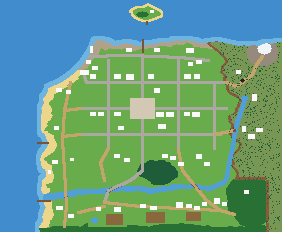
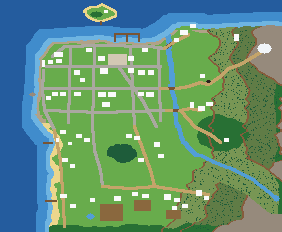
Blueprint draft 2: the world shaped after Beirut's topography
The town on a low peninsula with the sea north and west, the port, the coast turning north-east to meet the mountain,
the long straight West Beach, land rising east in cliff terraces to a summit, and the Beirut River running north past
the town into the sea east of the port. A highland colour joins the key.

diff --git a/tools/map/blueprint.js b/tools/map/blueprint.js
@@ -1,4 +1,4 @@
-// The new world's blueprint (2026-11-06): the 25 outdoor rooms merged into big Stardew-style areas, drawn one pixel per
+// The new world's blueprint (2026-11-06, draft 2 after Beirut's topographic map): the 25 outdoor rooms merged into big Stardew-style areas, drawn one pixel per
 // tile in flat colours (design/map/world_blueprint.png - paint over it to change the world), and a labelled 4x preview
 // (design/map/world_blueprint_preview.png).
 //   node tools/map/blueprint.js
@@ -19,7 +19,7 @@
 const C = {
 	deep: [36, 92, 158], sea: [64, 140, 204], shallow: [110, 180, 225], sand: [236, 214, 140], rocky: [176, 162, 136],
 	grass: [104, 172, 76], meadow: [128, 186, 88], forest: [40, 112, 52], pine: [30, 92, 58], cliff: [134, 92, 60],
-	cliffTop: [120, 150, 84], rock: [150, 138, 124], snow: [240, 244, 248], road: [170, 168, 160], lane: [196, 164, 106],
+	cliffTop: [120, 150, 84], highland: [96, 124, 70], rock: [150, 138, 124], snow: [240, 244, 248], road: [170, 168, 160], lane: [196, 164, 106],
 	plaza: [210, 200, 180], field: [138, 104, 62], river: [82, 158, 214], building: [250, 250, 250], pier: [120, 84, 52],
 	cave: [40, 34, 32],
 };
@@ -40,166 +40,176 @@ const hash = (i, s) => { let h = (i * 374761393 + s * 668265263) | 0; h = (h ^ (
 const noise = (t, s, f) => { const x = t * f, i = Math.floor(x), u = x - i, a = hash(i, s), b = hash(i + 1, s), k = u * u * (3 - 2 * u); return a + (b - a) * k; };
 const wob = (t, s, amp) => (noise(t, s, 0.07) - 0.5) * 2 * amp + (noise(t, s + 9, 0.22) - 0.5) * amp * 0.6;
 
-// ---- land, the coasts (world tiles 0..249 x 0..199, plus the margin)
-// West coast: the sea's edge at x = 12 +- (wider and narrower like a real beach); north coast at y = 12 +-; the town's
-// north-west corner (old Well's Head) is a bay
+// ---- land, the coasts (world tiles 0..249 x 0..199, plus the margin), after Beirut's real shape: a low peninsula
+// (the town) with the sea to its north and west and its north-west corner rounded off; past the port the coast turns
+// up to the north-east (North Beach, short, meeting the mountain's cliffs); south of the peninsula the west coast runs
+// long and straight (West Beach)
+const northCoast = x => (x < 128 ? 11 : 11 - (x - 128) * 0.6) + wob(x, 2, 2.5);
+const westCoast = y => (y < 84 ? 7 : y < 104 ? 7 + (y - 84) * 0.75 : 22) + wob(y, 1, (y < 84 ? 2 : 4));
 for(let y = -M; y < 200 + M; y++) for(let x = -M; x < 250 + M; x++){
-	const west = 14 + wob(y, 1, 6), north = 13 + wob(x, 2, 4);
-	const bay = (x < 70 && y < 64) && ((x - 0) ** 2 / 64 ** 2 + (y - 0) ** 2 / 58 ** 2 < 1.0 + wob(x + y, 3, 0.1));
-	const landHere = x >= west && y >= north && !bay;
-	if(landHere) set(x + M, y + M, "grass");
+	const tip = (x + y) < 34 + wob(x - y, 3, 3);                      // the peninsula's rounded north-west corner
+	if(x >= westCoast(y) && y >= Math.max(northCoast(x), -3 + wob(x, 7, 2)) && !tip) set(x + M, y + M, "grass");   // the mountain meets the sea at the top
 }
-// Shallows and beaches: sand (west, and the bay's shore) and rocky shore (north) a band in from the sea
 const isSea = (x, y) => ["deep", "sea", "shallow"].includes(get(x + M, y + M));
 const nearSea = (x, y, r) => { for(let dy = -r; dy <= r; dy++) for(let dx = -r; dx <= r; dx++) if(isSea(x + dx, y + dy)) return true; return false; };
+
+// ---- the land's height, in steps (0 the lowland and the town; 1, 2 the hills and mountain terraces; 3 the summit):
+// rising to the east and south-east as in the topographic map, with the river's valley cut down through it
+const river = [[246, 168], [224, 150], [204, 140], [184, 132], [166, 124], [154, 112], [148, 96], [146, 78], [142, 56], [140, 34], [138, 16], [137, 2]];
+const riverDist = (x, y) => { let best = 1e9; for(let i = 0; i < river.length - 1; i++){
+	const [x1, y1] = river[i], [x2, y2] = river[i + 1], dx = x2 - x1, dy = y2 - y1, t = Math.max(0, Math.min(1, ((x - x1) * dx + (y - y1) * dy) / (dx * dx + dy * dy)));
+	best = Math.min(best, Math.hypot(x - x1 - t * dx, y - y1 - t * dy)); } return best; };
+const Lr = Array.from({length: 200 + 2 * M}, () => Array(250 + M).fill(0));
+const L = new Proxy(Lr, {get: (t, k) => t[Number(k) + M]});      // L[y][x] for y from -M
+for(let y = -M; y < 200 + M; y++) for(let x = 0; x < 250 + M; x++){
+	let h = (x - 150 - wob(y, 30, 12)) / 34 + Math.max(0, y - 130 - wob(x, 31, 10)) / 42 * Math.min(1, Math.max(0, (x - 70) / 80));
+	h += Math.max(0, 1.4 - Math.hypot(x - 232, y - 22) / 34);         // the summit, top right
+	const rd = riverDist(x, y);
+	if(rd < 9) h = Math.min(h, y < 110 ? 0 : 1);                     // the valley floor
+	else if(rd < 16) h = Math.min(h, y < 110 ? 1 : 1.9);
+	Lr[y + M][x] = Math.max(0, Math.min(3, Math.floor(h)));
+}
+const highKind = ["grass", "cliffTop", "highland", "rock"];
+for(let y = -M; y < 200 + M; y++) for(let x = 0; x < 250 + M; x++) if(get(x + M, y + M) === "grass" && L[y][x] > 0) set(x + M, y + M, highKind[L[y][x]]);
+disc(234, 18, 7, 5, "snow", ["rock"]);
+// A cliff face wherever the ground steps down to the west or the south (2 tiles deep: the face you see)
+{
+	const lv = (x, y) => (x < 0 || y < -M || y >= 200 + M || x >= 250 + M) ? -1 : (isSea(x, y) ? -1 : L[y][x]), face = [];
+	for(let y = -M; y < 200 + M; y++) for(let x = 0; x < 250 + M; x++){
+		if(lv(x, y) <= 0) continue;
+		if(lv(x - 1, y) >= 0 && lv(x - 1, y) < lv(x, y)){ face.push([x, y]); face.push([x + 1, y]); }
+		if(lv(x, y + 1) >= 0 && lv(x, y + 1) < lv(x, y)){ face.push([x, y]); face.push([x, y - 1]); }
+	}
+	for(const [x, y] of face) if(["cliffTop", "highland", "rock"].includes(get(x + M, y + M))) set(x + M, y + M, "cliff");
+}
+
+// ---- beaches: the West Beach's wide sand (in and out like a real beach); rocky shore round the peninsula (Raouche,
+// the corniche) and along North Beach
 for(let y = 0; y < 200; y++) for(let x = 0; x < 250; x++){
 	if(get(x + M, y + M) !== "grass") continue;
-	const band = (x < 60) ? 7 + Math.round(wob(y, 4, 4)) : 4 + Math.round(wob(x, 5, 2));
-	if(nearSea(x, y, Math.max(2, band))) set(x + M, y + M, (y < 40 && x > 46) ? "rocky" : "sand");
+	const sandy = y > 92;
+	const band = sandy ? 6 + Math.round(wob(y, 4, 4)) : 3 + Math.round(wob(x + y, 5, 1.5));
+	if(nearSea(x, y, Math.max(2, band))) set(x + M, y + M, sandy ? "sand" : "rocky");
 }
 for(let y = -M; y < 200 + M; y++) for(let x = -M; x < 250 + M; x++){
 	if(!isSea(x, y)) continue;
 	let land = false;
-	for(let dy = -4; dy <= 4 && !land; dy++) for(let dx = -4; dx <= 4; dx++) if(!isSea(x + dx, y + dy) && get(x + dx + M, y + dy + M) !== undefined){ land = true; break; }
-	set(x + M, y + M, land ? "shallow" : (get(x + M, y + M) === "deep" && nearSea(x, y, 0) ? "sea" : "deep"));
+	for(let dy = -4; dy <= 4 && !land; dy++) for(let dx = -4; dx <= 4; dx++) if(!isSea(x + dx, y + dy)){ land = true; break; }
+	if(land) set(x + M, y + M, "shallow");
 }
 for(let y = -M; y < 200 + M; y++) for(let x = -M; x < 250 + M; x++){
 	if(get(x + M, y + M) !== "deep") continue;
-	for(let dy = -9; dy <= 9; dy++) for(let dx = -9; dx <= 9; dx++) if(["shallow"].includes(get(x + dx + M, y + dy + M))){ set(x + M, y + M, "sea"); dy = 99; break; }
+	for(let dy = -9; dy <= 9; dy++) for(let dx = -9; dx <= 9; dx++) if(get(x + dx + M, y + dy + M) === "shallow"){ set(x + M, y + M, "sea"); dy = 99; break; }
 }
 
-// ---- the mountain (top right): high ground from the north coast's east end down to the woods, a peak, the mine
-const ridge = y => 200 + wob(y, 6, 10) - (y < 40 ? (40 - y) * 0.9 : 0);   // its west edge, swinging out over the north
-for(let y = 0; y < 150; y++) for(let x = 0; x < 250 + M; x++){
-	if(x >= ridge(y) && !isSea(x, y)) set(x + M, y + M, "cliffTop");
-}
-for(let y = 150; y < 200 + M; y++) for(let x = 236; x < 250 + M; x++) if(!isSea(x, y)) set(x + M, y + M, "cliffTop");
-disc(232, 22, 16, 14, "rock", ["cliffTop"]);
-for(let y = 0; y < 200; y++) for(let x = 190; x < 250; x++) if(get(x + M, y + M) === "cliffTop" && hash(x * 3, y * 7) < 0.09) set(x + M, y + M, "pine");
-disc(234, 18, 7, 6, "snow", ["rock"]);
-// The cliff face along the high ground's west and south edges
-{
-	const high = (x, y) => ["cliffTop", "rock", "snow", "pine"].includes(get(x + M, y + M)), edge = [];
-	for(let y = 0; y < 200 + M; y++) for(let x = 0; x < 250 + M; x++){
-		if(get(x + M, y + M) !== "cliffTop") continue;
-		if(!high(x - 1, y)) for(let k = 0; k < 3; k++) edge.push([x + k, y]);          // the west face, 3 wide
-		for(let k = 1; k <= 3; k++) if(get(x + M, y + k + M) === "grass"){ edge.push([x, y]); break; }   // the south face
-	}
-	for(const [x, y] of edge) if(get(x + M, y + M) === "cliffTop") set(x + M, y + M, "cliff");
-}
-
-// ---- forests: Whispering Woods (bottom right), the pine wood in the Outskirts (Dahya), woods along the south
-const blob = (cx, cy, rx, ry, k, s) => { for(let y = cy - ry - 6; y <= cy + ry + 6; y++) for(let x = cx - rx - 6; x <= cx + rx + 6; x++){
+// ---- forests: Horsh Beirut's pines south of the town (the Outskirts), Whispering Woods on the slopes east of the river,
+// pines scattered over the mountain, and a thick wood along the world's south and east edges
+const blob = (cx, cy, rx, ry, k, s, on) => { for(let y = cy - ry - 6; y <= cy + ry + 6; y++) for(let x = cx - rx - 6; x <= cx + rx + 6; x++){
 	const a = Math.atan2(y - cy, x - cx), r = 1 + wob(a * 20 + 50, s, 0.18);
-	if(((x - cx) / rx) ** 2 + ((y - cy) / ry) ** 2 <= r * r && ["grass"].includes(get(x + M, y + M))) set(x + M, y + M, k);
+	if(((x - cx) / rx) ** 2 + ((y - cy) / ry) ** 2 <= r * r && (on || ["grass"]).includes(get(x + M, y + M))) set(x + M, y + M, k);
 } };
-blob(222, 172, 26, 26, "forest", 11);
-blob(225, 130, 20, 16, "forest", 12);
-blob(128, 141, 20, 12, "pine", 13);        // Horsh Beirut, the pine wood
-blob(70, 196, 22, 5, "forest", 14);
-blob(150, 197, 30, 4, "forest", 15);
-
+blob(92, 122, 15, 9, "pine", 13);
+blob(192, 104, 26, 18, "forest", 11, ["grass", "cliffTop", "highland"]);
+for(let y = 0; y < 200; y++) for(let x = 150; x < 250; x++) if(["cliffTop", "highland"].includes(get(x + M, y + M)) && hash(x * 3, y * 7) < 0.08) set(x + M, y + M, "pine");
 for(let y = 0; y < 200 + M; y++) for(let x = 0; x < 250 + M; x++){
-	const southEdge = y > 197 + wob(x, 17, 3), eastEdge = x > 247 + wob(y, 18, 3);
-	if((southEdge || eastEdge) && ["grass", "sand"].includes(get(x + M, y + M))) set(x + M, y + M, "forest");
+	const southEdge = y > 196 + wob(x, 17, 3), eastEdge = x > 246 + wob(y, 18, 3);
+	if((southEdge || eastEdge) && ["grass", "sand", "cliffTop", "highland"].includes(get(x + M, y + M))) set(x + M, y + M, "forest");
 }
 
-// ---- the river: from the mountain's spring, down the woods' edge, west between the Outskirts and the farm, to the sea
-const river = [[214, 70], [207, 92], [202, 118], [196, 150], [178, 158], [150, 157], [120, 160], [96, 158], [70, 161], [44, 163], [20, 166], [0, 167]];
+// ---- the river (Nahr Beirut): down from the south-east mountains, along the valley, north past the town's east edge
+// into the sea east of the port
 for(let i = 0; i < river.length - 1; i++){
 	const [x1, y1] = river[i], [x2, y2] = river[i + 1], n = Math.max(Math.abs(x2 - x1), Math.abs(y2 - y1));
 	for(let t = 0; t <= n; t++){
-		const x = x1 + (x2 - x1) * t / n, y = y1 + (y2 - y1) * t / n + wob(x * 2 + t, 16, 1.5), w = 1.5 + i * 0.12;
+		const x = x1 + (x2 - x1) * t / n + wob(y1 + t, 16, 1.5), y = y1 + (y2 - y1) * t / n, w = 1 + (i / river.length) * 1.5;
 		for(let dy = -w; dy <= w; dy++) for(let dx = -w; dx <= w; dx++) if(!isSea(Math.round(x + dx), Math.round(y + dy))) set(x + dx + M, y + dy + M, "river");
 	}
 }
-disc(214, 68, 4, 3, "river");                                     // the spring's pool
+disc(246, 168, 3, 3, "river");
 
-// ---- roads (grey, the town's cobbles and the main roads) and lanes (dirt)
+// ---- roads (grey cobbles) and lanes (dirt)
 const line = (pts, k, w, under) => { for(let i = 0; i < pts.length - 1; i++){
 	const [x1, y1] = pts[i], [x2, y2] = pts[i + 1], n = Math.max(Math.abs(x2 - x1), Math.abs(y2 - y1), 1);
 	for(let t = 0; t <= n; t++){ const x = x1 + (x2 - x1) * t / n, y = y1 + (y2 - y1) * t / n;
 		for(let dy = -w; dy <= w; dy++) for(let dx = -w; dx <= w; dx++){ const cur = get(Math.round(x + dx) + M, Math.round(y + dy) + M);
 			if(cur === "river") set(x + dx + M, y + dy + M, "pier");            // a bridge
 			else if(!["deep", "sea", "shallow"].includes(cur) && (!under || under.includes(cur))) set(x + dx + M, y + dy + M, k); } } } };
-// The town: a grid of streets with a square in the middle (old Downtown), the corniche along the north
-line([[56, 52], [196, 52]], "road", 1); line([[50, 78], [196, 78]], "road", 1); line([[50, 104], [190, 104]], "road", 1);
-line([[78, 30], [78, 118]], "road", 1); line([[112, 44], [112, 120]], "road", 1); line([[148, 44], [148, 120]], "road", 1); line([[184, 52], [184, 118]], "road", 1);
-line([[54, 46], [56, 52]], "road", 1);                             // up to the Riviera on the bay
-rect(100, 68, 124, 88, "plaza");                                  // the town square
-// North Beach's corniche, along the top of the land, running into the cliffs
-line([[52, 26], [100, 25], [150, 27], [178, 30]], "road", 1);
-line([[112, 44], [112, 26]], "road", 1); line([[148, 44], [148, 27]], "road", 1);
-// The West Beach's coast road, and the lanes down to the sand
-line([[40, 52], [34, 80], [32, 110], [34, 140], [36, 175], [34, 196]], "lane", 1);
-line([[50, 78], [34, 80]], "lane", 1); line([[50, 104], [32, 106]], "lane", 1);
-// Out of town to the east: the mine road up the mountain to the mine, and on up to the peak
-line([[196, 52], [206, 56], [214, 50], [222, 44], [226, 34], [232, 26]], "lane", 1, ["grass", "cliffTop", "cliff", "rock", "lane", "road"]);
-line([[184, 104], [204, 100]], "lane", 1, ["grass", "cliffTop", "cliff", "lane", "road"]);   // up to Victory Hill
-// The Outskirts: the road south from the town to the farm, a ring round the pine wood, the lane east to the countryside
-line([[112, 120], [112, 140], [100, 150], [78, 160], [74, 172]], "road", 1);
-line([[78, 118], [70, 132], [74, 150]], "lane", 1);
-line([[148, 120], [152, 140], [160, 150]], "lane", 1);
-line([[74, 172], [110, 176], [150, 178], [190, 180]], "lane", 1);
-line([[160, 150], [176, 170], [190, 180], [204, 184]], "lane", 1);   // into Whispering Woods
-line([[48, 182], [74, 176]], "lane", 1);                            // the farm to the West Beach
+const lowland = ["grass", "rocky", "sand", "road", "lane", "pine"];
+// The town: the corniche round the peninsula, avenues out from the square by the port (Downtown), cross streets
+line([[34, 16], [70, 15], [120, 16], [134, 18]], "road", 1);                          // the corniche, north
+line([[13, 40], [12, 60], [14, 80], [24, 100]], "road", 1);                          // the corniche, west
+line([[22, 26], [34, 16]], "road", 1);
+line([[16, 36], [60, 36], [130, 36]], "road", 1); line([[14, 58], [60, 58], [134, 58]], "road", 1); line([[16, 80], [70, 82], [136, 80]], "road", 1);
+line([[40, 18], [38, 92]], "road", 1); line([[64, 16], [62, 96]], "road", 1); line([[100, 16], [104, 96]], "road", 1); line([[128, 20], [130, 90]], "road", 1);
+line([[88, 36], [112, 70], [126, 96]], "road", 1);                                   // a diagonal avenue, as Beirut has
+rect(78, 24, 96, 34, "plaza");                                                      // the square, by the port
+// Out of town: south through the Outskirts to the farm; down the West Beach; east over the river and up the mountain
+line([[62, 96], [64, 120], [70, 140], [72, 156]], "road", 1);
+line([[104, 96], [112, 118], [120, 140], [124, 156]], "lane", 1);
+line([[24, 100], [30, 130], [32, 160], [34, 196]], "lane", 1);
+line([[72, 156], [100, 158], [124, 156], [150, 160], [178, 164]], "lane", 1);         // the countryside lane
+line([[130, 58], [146, 58], [158, 56], [170, 52], [178, 54]], "lane", 1, lowland.concat(["cliffTop", "cliff", "highland"]));   // to the mine
+line([[178, 54], [190, 46], [198, 38], [210, 34], [220, 28], [230, 22]], "lane", 1, lowland.concat(["cliffTop", "cliff", "highland", "rock", "pine"]));  // up to the peak
+line([[136, 80], [150, 80], [160, 78], [170, 80]], "lane", 1, lowland.concat(["cliffTop", "cliff"]));   // to Victory Hill
+line([[150, 80], [164, 96], [180, 104], [190, 112]], "lane", 1, lowland.concat(["cliffTop", "cliff", "forest"]));  // into Whispering Woods
+line([[134, 18], [146, 10], [158, 4]], "lane", 1);                                   // over the river mouth to North Beach
 
-// ---- the farm (old rm_1's place): a field and a pond
-rect(58, 176, 96, 196, "grass", ["grass", "forest"]);
-rect(76, 184, 92, 194, "field");
-disc(64, 190, 4, 3, "river");
-
-// ---- the countryside's fields and vineyard
-rect(116, 182, 134, 192, "field"); rect(156, 182, 170, 190, "field");
-
-// ---- piers
+// ---- the port (Starsand's piers) and the West Beach's piers; Pigeon Rocks offshore (the sea arch)
 const pier = (x, y, len, dx, dy) => { for(let k = 0; k < len; k++) for(let w = 0; w <= 1; w++) set(x + dx * k + (dy ? w : 0) + M, y + dy * k + (dx ? w : 0) + M, "pier"); };
-pier(112, 22, 14, 0, -1);             // Starsand's stone pier (north)
-pier(18, 112, 12, -1, 0);             // Pigeon Rocks
-pier(20, 170, 14, -1, 0);             // South Beach's fishing pier
+pier(84, 11, 9, 0, -1); pier(96, 11, 9, 0, -1); pier(108, 11, 9, 0, -1); pier(84, 3, 26, 1, 0);
+pier(22, 112, 10, -1, 0); pier(26, 170, 12, -1, 0);
+disc(2, 64, 3, 2, "rock");
 
-// ---- the mine, in the mountain's cliff face
-disc(212, 50, 2, 1.5, "cave");
+// ---- the farm (south-west lowland, near the beach) and the countryside's fields
+rect(56, 166, 94, 192, "grass", ["grass", "forest", "pine", "sand"]);
+rect(70, 174, 92, 190, "field");
+disc(60, 186, 4, 3, "river");
+rect(104, 170, 120, 180, "field"); rect(136, 180, 150, 188, "field");
 
-// ---- Bunny Island, out in the northern sea, and the ferry's route from Starsand
-for(let y = -28; y < -6; y++) for(let x = 96; x < 136; x++){
-	const a = Math.atan2(y + 17, x - 116), r = 1 + wob(a * 20, 21, 0.15);
-	if(((x - 116) / 17) ** 2 + ((y + 17) / 9) ** 2 <= r * r) set(x + M, y + M, "grass");
+// ---- the mine, in a cliff face on the mountain
+disc(178, 51, 2, 1.5, "cave");
+
+// ---- Bunny Island, out in the northern sea, and the ferry from Starsand's port
+for(let y = -28; y < -6; y++) for(let x = 50; x < 90; x++){
+	const a = Math.atan2(y + 17, x - 70), r = 1 + wob(a * 20, 21, 0.15);
+	if(((x - 70) / 17) ** 2 + ((y + 17) / 9) ** 2 <= r * r) set(x + M, y + M, "grass");
 }
-for(let y = -28; y < -6; y++) for(let x = 96; x < 136; x++) if(get(x + M, y + M) === "grass" && nearSea(x, y, 2)) set(x + M, y + M, "sand");
-disc(112, -16, 6, 3, "forest", ["grass"]);
-pier(116, -9, 4, 0, 1);
+for(let y = -28; y < -6; y++) for(let x = 50; x < 90; x++) if(get(x + M, y + M) === "grass" && nearSea(x, y, 2)) set(x + M, y + M, "sand");
+disc(66, -16, 6, 3, "forest", ["grass"]);
+pier(70, -9, 4, 0, 1);
 
 // ---- buildings: [x, y, w, h] in tiles (footprints, roughly to scale), by area
 const B = [];
 const b = (x, y, w, h, name) => B.push({x, y, w, h, name});
-// Beirut, the town
-b(50, 40, 9, 5, "Riviera hotel"); b(62, 36, 6, 4, "Glassworks"); b(56, 30, 5, 4, "Fairglass");
-b(60, 44, 6, 5, "Goldcrest"); b(84, 44, 7, 5, "Tavern"); b(96, 44, 8, 6, "Bank"); b(118, 44, 6, 5, "Tools");
-b(154, 44, 7, 5, "Smithy"); b(164, 44, 6, 5, "Whitlow"); b(124, 58, 6, 5, "Guild hall");
-b(60, 82, 6, 4, "Bakery"); b(68, 82, 6, 4, "Flowers"); b(84, 82, 7, 4, "Furniture");
-b(126, 82, 8, 5, "Hospital"); b(136, 82, 8, 5, "Library"); b(128, 94, 8, 5, "Museum");
-b(154, 82, 6, 4, "Quill"); b(162, 82, 8, 5, "Meadowlark"); b(88, 96, 6, 4, "Cafe");
-// North Beach
-b(60, 16, 3, 7, "Lighthouse"); b(96, 18, 6, 4, "Fish market"); b(124, 18, 6, 4, "Ferry"); b(156, 18, 8, 5, "Hangar 12");
-b(166, 30, 6, 4, "Tinker"); b(158, 32, 5, 4, "Brassbolt");
+// Beirut, the town (districts: Well's Head in the north-west corner, Red Street, Downtown round the square by the port,
+// Grace Tower, Verdun Street, Uptown, Oven's Window)
+b(24, 22, 9, 5, "Riviera hotel"); b(26, 29, 6, 4, "Glassworks"); b(18, 30, 5, 4, "Fairglass");
+b(44, 40, 6, 5, "Goldcrest"); b(68, 26, 7, 5, "Tavern"); b(70, 38, 8, 6, "Bank"); b(98, 26, 6, 5, "Tools"); b(98, 38, 6, 5, "Guild hall");
+b(108, 40, 7, 5, "Smithy"); b(118, 40, 6, 5, "Whitlow");
+b(22, 62, 6, 4, "Bakery"); b(30, 62, 6, 4, "Flowers"); b(44, 62, 7, 4, "Furniture"); b(50, 48, 5, 4, "Cafe");
+b(68, 62, 8, 5, "Hospital"); b(78, 62, 8, 5, "Library"); b(72, 72, 8, 5, "Museum");
+b(108, 62, 6, 4, "Quill"); b(116, 62, 8, 5, "Meadowlark");
+// North Beach (the lighthouse on the peninsula's corner, the port, Hangar 12 past the river mouth)
+b(12, 30, 3, 7, "Lighthouse"); b(56, 18, 6, 4, "Fish market"); b(112, 18, 6, 4, "Ferry");
+b(150, 0, 8, 5, "Hangar 12"); b(160, -6, 6, 4, "Tinker"); b(144, 8, 5, 4, "Brassbolt");
 // West Beach
-b(26, 58, 6, 4, "Olive press"); b(36, 60, 5, 4, "Saba"); b(24, 96, 5, 4, "Gullwater"); b(22, 130, 6, 4, "Beach bar");
-b(18, 140, 3, 4, "Lifeguard"); b(40, 128, 4, 3, "Shack"); b(26, 176, 7, 4, "Boatyard"); b(38, 184, 6, 4, "Saltwhistle");
-// The Mountain
-b(222, 64, 5, 7, "Witch tower"); b(206, 40, 5, 4, "Ironvein"); b(212, 96, 4, 6, "Windmill"); b(218, 104, 7, 5, "Oakhart"); b(226, 98, 7, 4, "Mill");
-// The Outskirts
-b(84, 124, 6, 4, "Kassar"); b(94, 128, 6, 4, "Merchant"); b(132, 124, 6, 4, "Larkspun"); b(140, 126, 6, 4, "Outfitter");
-b(148, 132, 6, 4, "Tawil"); b(166, 124, 6, 5, "Silverbough"); b(174, 132, 6, 4, "Apothecary");
+b(16, 66, 5, 4, "Gullwater"); b(30, 100, 6, 4, "Beach bar"); b(26, 108, 3, 4, "Lifeguard"); b(38, 112, 4, 3, "Shack");
+b(32, 128, 6, 4, "Olive press"); b(40, 134, 5, 4, "Saba"); b(30, 164, 7, 4, "Boatyard"); b(40, 174, 6, 4, "Saltwhistle");
+// The Mountain (Beacon Hill's mine, Victory Hill's mill above the river, the witch's tower near the top by the sea)
+b(170, 44, 5, 4, "Ironvein"); b(160, 72, 4, 6, "Windmill"); b(168, 76, 7, 5, "Oakhart"); b(176, 72, 7, 4, "Mill");
+b(204, 4, 5, 7, "Witch tower");
+// The Outskirts (Wing Hill, Dahya by the pine wood, Resolve's Rise)
+b(46, 104, 6, 4, "Kassar"); b(54, 108, 6, 4, "Merchant"); b(96, 104, 6, 4, "Larkspun"); b(104, 106, 6, 4, "Outfitter");
+b(108, 128, 6, 4, "Tawil"); b(124, 112, 6, 5, "Silverbough"); b(128, 124, 6, 4, "Apothecary");
 // Whispering Woods
-b(214, 160, 5, 4, "Ranger");
+b(194, 108, 5, 4, "Ranger");
 // The farm
-b(66, 177, 5, 4, "Farmhouse"); b(84, 177, 7, 5, "Barn");
-// The Countryside
-b(110, 174, 6, 4, "Night farm"); b(120, 176, 7, 4, "Seeds"); b(146, 172, 7, 6, "Monastery"); b(156, 174, 6, 4, "Stables");
-b(164, 176, 6, 4, "Hayward"); b(172, 172, 5, 4, "Frere"); b(184, 168, 6, 6, "Church"); b(192, 172, 5, 4, "Ward");
+b(60, 168, 5, 4, "Farmhouse"); b(84, 166, 7, 5, "Barn");
+// The Countryside (Saint Thereza, Frere's Fray, Abda's Ascent on the rising ground)
+b(102, 162, 6, 4, "Night farm"); b(112, 164, 7, 4, "Seeds"); b(134, 164, 7, 6, "Monastery"); b(144, 168, 6, 4, "Stables");
+b(152, 174, 6, 4, "Hayward"); b(142, 176, 5, 4, "Frere"); b(166, 160, 6, 6, "Church"); b(174, 166, 5, 4, "Ward");
 // Bunny Island
-b(120, -20, 4, 3, "Burrow");
+b(74, -20, 4, 3, "Burrow");
 for(const k of B) rect(k.x, k.y, k.x + k.w - 1, k.y + k.h - 1, "building");
 
 // ---- the blueprint: one pixel a tile
@@ -219,7 +229,7 @@ for(let y = 0; y < H; y++) for(let x = 0; x < W; x++){
 	if(k === "building") c = C.plaza;
 	for(let dy = 0; dy < S; dy++) for(let dx = 0; dx < S; dx++){
 		let cc = c;
-		if(k === "grass" || k === "meadow" || k === "cliffTop") cc = shade(c, 1 + (hash(x * 7 + dx, y * 13 + dy) - 0.5) * 0.08);
+		if(k === "grass" || k === "meadow" || k === "cliffTop" || k === "highland") cc = shade(c, 1 + (hash(x * 7 + dx, y * 13 + dy) - 0.5) * 0.08);
 		if(k === "deep" || k === "sea") cc = shade(c, ((x * 3 + y * 5 + dx) % 23 === 0 && dy === 1) ? 1.25 : 1);
 		if(k === "sand") cc = shade(c, (hash(x * S + dx, y * S + dy) < 0.06) ? 0.9 : 1);
 		put(x * S + dx, y * S + dy, cc);
@@ -288,16 +298,16 @@ const text = (str, x, y, sc, col) => {
 const at = (x, y) => [(x + M) * S, (y + M) * S];
 const area = (name, x, y) => { const [px, py] = at(x, y); text(name, px, py, 3, [255, 236, 150]); };
 const dist = (name, x, y) => { const [px, py] = at(x, y); text(name, px, py, 2, [255, 255, 255]); };
-area("Beirut", 112, 75); area("North Beach", 60, -6); area("West Beach", 18, 150); area("The Mountain", 222, 82);
-area("The Outskirts", 112, 146); area("Whispering Woods", 210, 186); area("Countryside", 150, 194); area("The Farm", 77, 170);
-area("Bunny Island", 116, -27);
-dist("Well's Head", 30, 30); dist("Red Street", 64, 60); dist("Downtown", 112, 64); dist("Grace Tower", 166, 60);
-dist("Verdun Street", 70, 92); dist("Uptown", 130, 110); dist("Oven's Window", 166, 92);
-dist("Manara's Light", 64, 8); dist("Starsand Pier", 118, 8); dist("Hangar 12", 162, 10);
-dist("Olive Bay", 22, 66); dist("Pigeon Rocks", 22, 104); dist("White Sand", 22, 120); dist("South Beach", 22, 188);
-dist("Plummet's Point", 228, 4); dist("Beacon Hill", 222, 54); dist("Victory Hill", 222, 114);
-dist("Wing Hill", 86, 134); dist("Dahya", 128, 136); dist("Resolve's Rise", 172, 142);
-dist("Saint Thereza", 122, 168); dist("Frere's Fray", 160, 166); dist("Abda", 192, 162);
-dist("Mine", 212, 46); dist("Peak", 234, 12); dist("Ferry", 128, -4); dist("Riviera", 54, 26);
+area("Beirut", 87, 46); area("North Beach", 40, 2); area("West Beach", 14, 146); area("The Mountain", 205, 64);
+area("The Outskirts", 84, 145); area("Whispering Woods", 196, 128); area("Countryside", 140, 190); area("The Farm", 76, 196);
+area("Bunny Island", 70, -27);
+dist("Well's Head", 30, 10); dist("Red Street", 40, 50); dist("Downtown", 87, 20); dist("Grace Tower", 122, 50);
+dist("Verdun Street", 40, 70); dist("Uptown", 76, 80); dist("Oven's Window", 116, 70);
+dist("Manara's Light", 12, 40); dist("Starsand Pier", 96, -2); dist("Hangar 12", 170, 4);
+dist("Pigeon Rocks", 8, 56); dist("White Sand", 34, 118); dist("Olive Bay", 36, 140); dist("South Beach", 36, 180);
+dist("Plummet's Point", 210, -10); dist("Beacon Hill", 176, 38); dist("Victory Hill", 170, 84);
+dist("Wing Hill", 58, 98); dist("Dahya", 100, 112); dist("Resolve's Rise", 128, 132);
+dist("Saint Thereza", 108, 152); dist("Frere's Fray", 144, 184); dist("Abda", 172, 154);
+dist("Mine", 178, 56); dist("Peak", 234, 8); dist("Ferry", 60, -6); dist("Riviera", 28, 18); dist("Beirut River", 156, 136);
 writePng(path.join(out, "world_blueprint_preview.png"), P);
 console.log("world_blueprint.png " + TW + "x" + TH + " (1 px = 1 tile), preview " + P.w + "x" + P.h);

diff --git a/design/map/README.md b/design/map/README.md
@@ -1,4 +1,4 @@
-# The new world's blueprint (draft 1, 2026-11-06)
+# The new world's blueprint (draft 2, 2026-11-06: after Beirut's topographic map)
 
 `world_blueprint.png` is the whole outdoor world, **one pixel = one tile** (282 x 232, the world itself 250 x 200 with
 the sea to the west and north). Paint over it in any paint program to change the world, keeping to the colours below;
@@ -13,9 +13,10 @@ Made by `node tools/map/blueprint.js`.
 | 104,172,76 | grass |
 | 40,112,52 | forest (broadleaf) |
 | 30,92,58 | pine wood |
-| 120,150,84 | high ground (the mountain, on top of the cliffs) |
+| 120,150,84 | hills, one step up (on top of a cliff) |
+| 96,124,70 | highland, two steps up |
 | 134,92,60 | cliff face |
-| 150,138,124 / 240,244,248 | bare rock / snow (the peak) |
+| 150,138,124 / 240,244,248 | the summit, three steps up: bare rock / snow (the peak) |
 | 170,168,160 | road (cobbles) |
 | 196,164,106 | lane (dirt path) |
 | 210,200,180 | town square |
@@ -32,3 +33,9 @@ signpost), **North Beach** (Manara's Light, Starsand Pier, Hangar 12 - rocky, ru
 the mine, a road up to the peak), **The Outskirts** (Wing Hill, Dahya with its pine wood, Resolve's Rise - between the
 farm and the town), **Whispering Woods**, **The Countryside** (Saint Thereza, Frere's Fray, Abda's Ascent), **The Farm**,
 and **Bunny Island** (by ferry from Starsand Pier).
+
+Draft 2 follows Beirut's real shape: the town on a low peninsula (sea to the north and west, its north-west corner
+rounded), the port with Starsand's piers, the coast turning north-east past it to meet the mountain (North Beach), the
+long straight West Beach to the south, the land rising east in steps (cliff faces where it steps down to the west or
+south), and the Beirut River coming down from the south-east mountains and running north past the town's east edge into
+the sea. Horsh Beirut's pines are in the Outskirts, south of the town.
